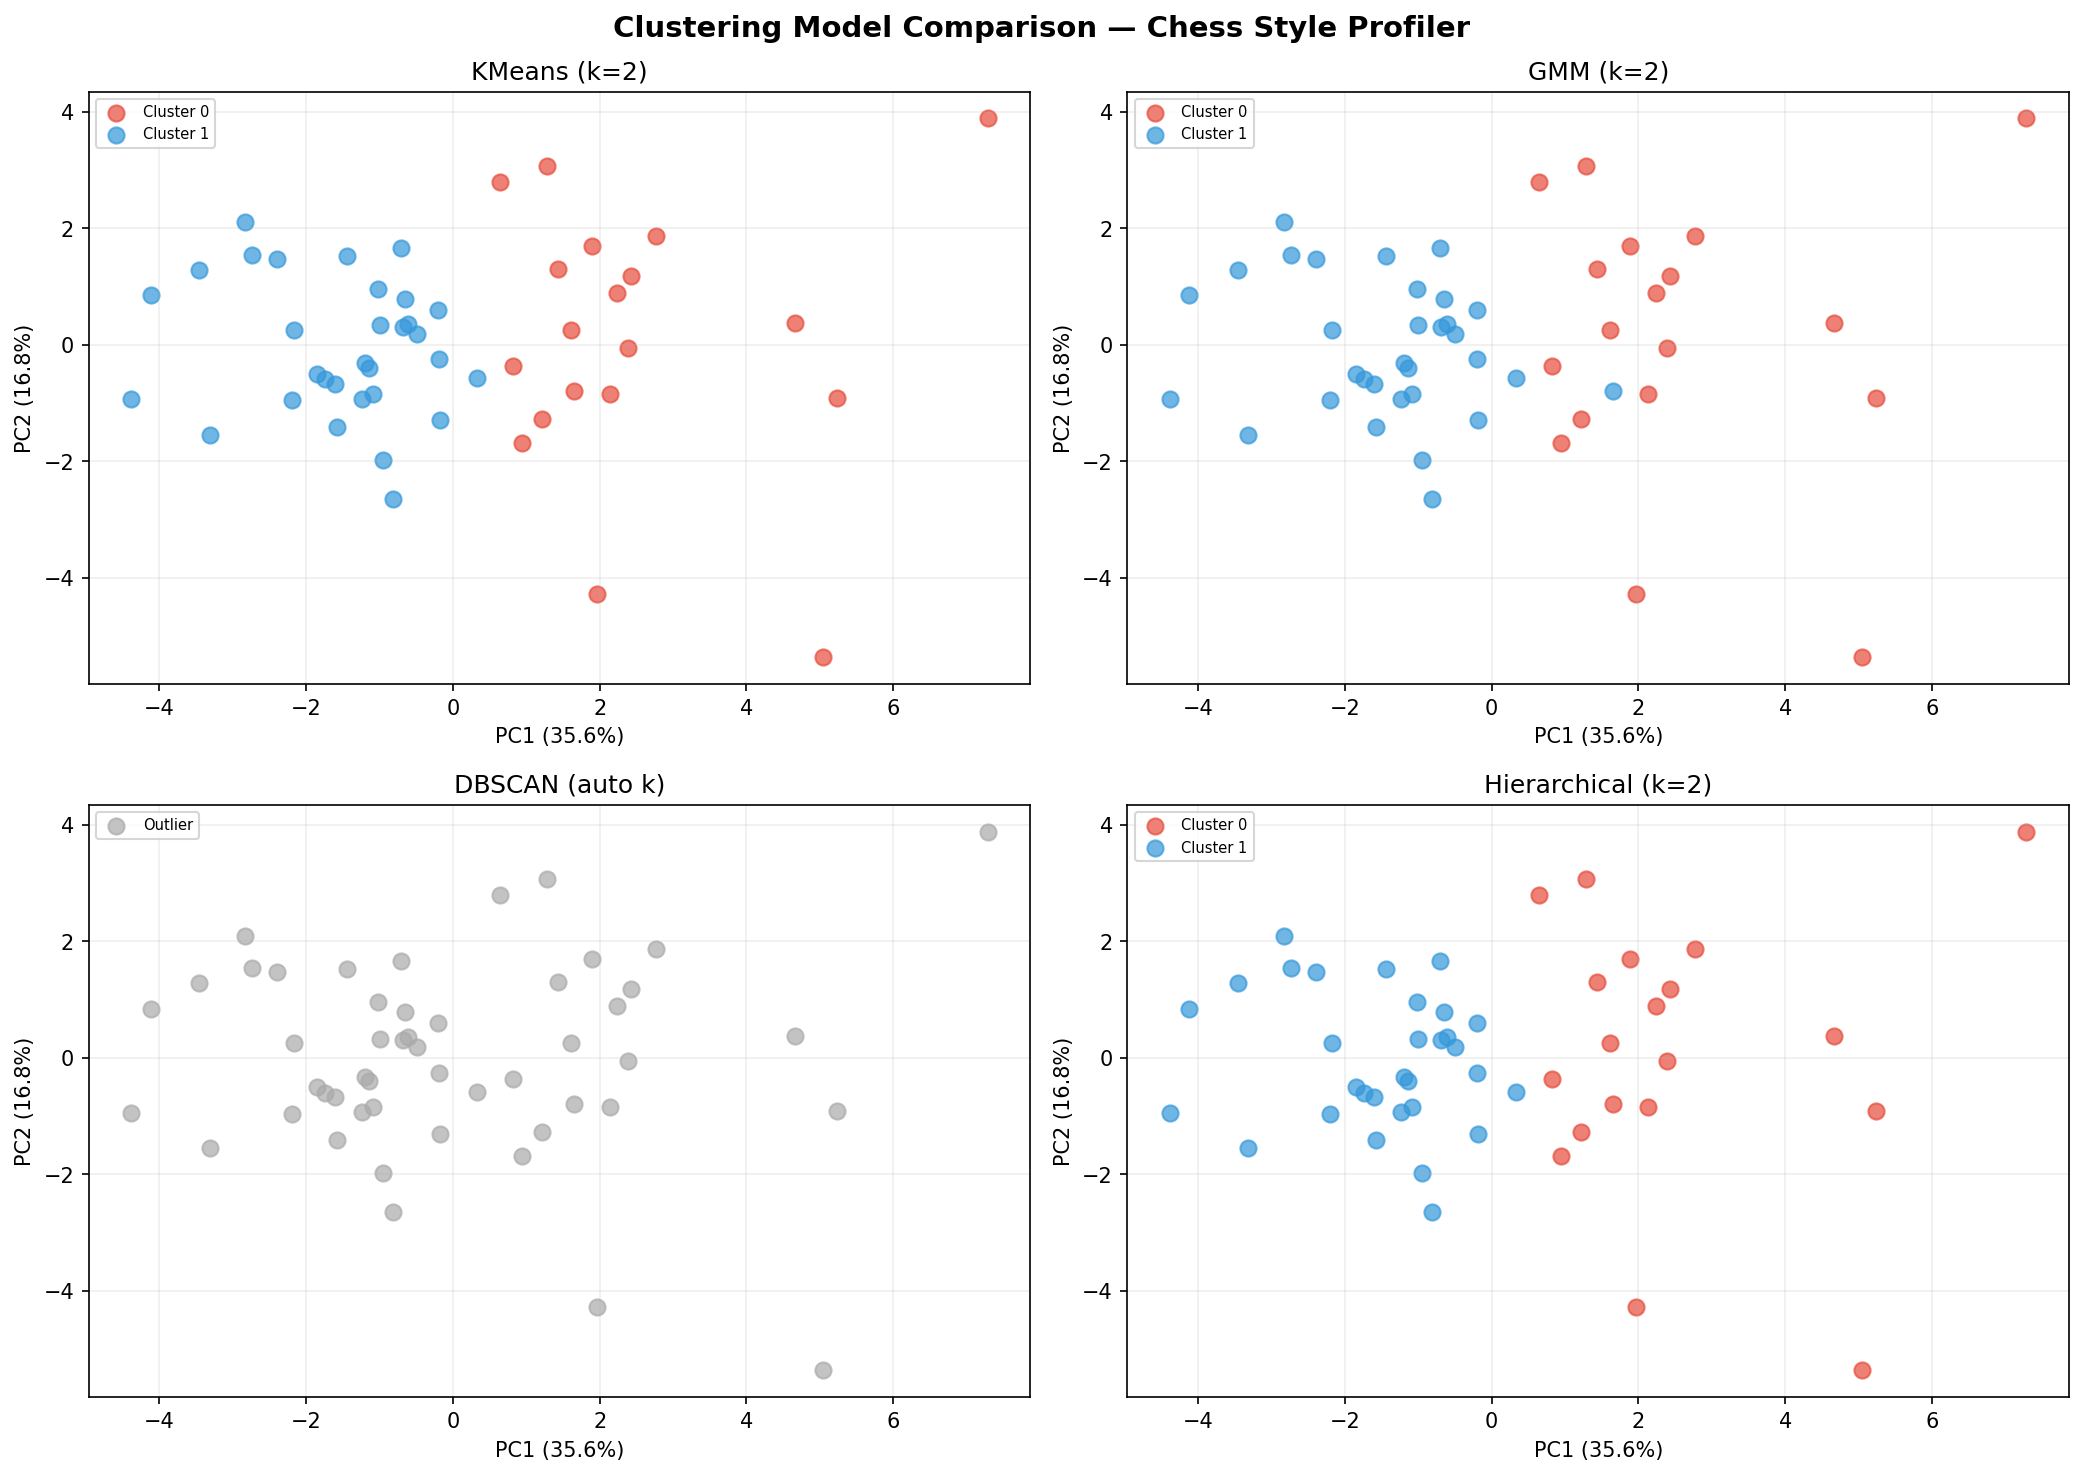
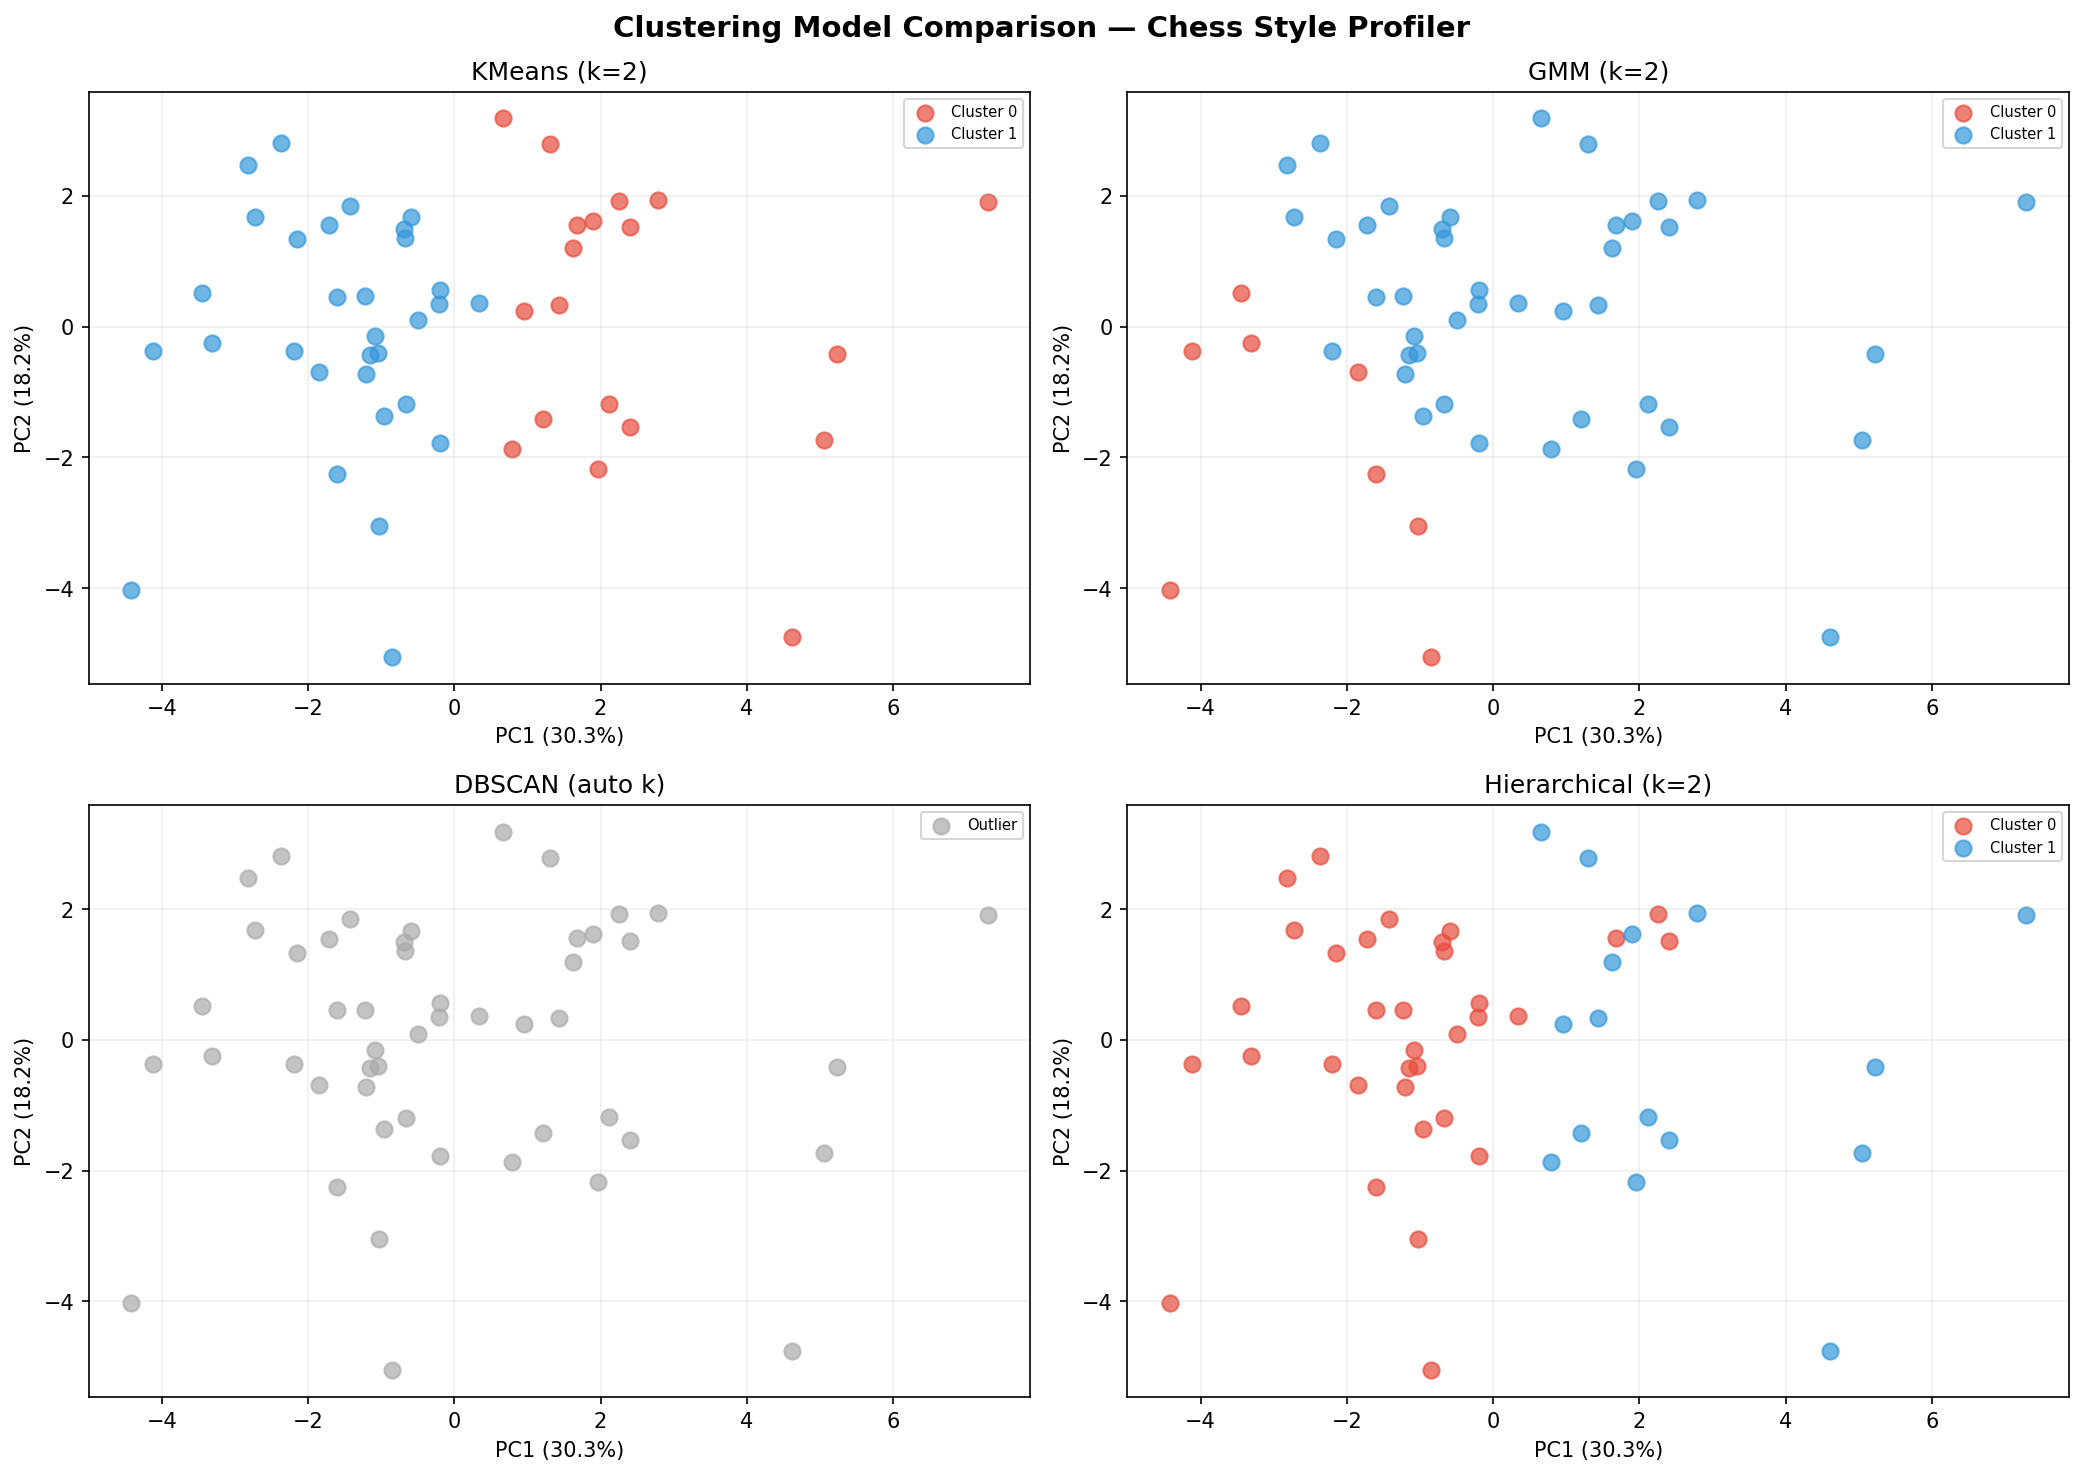
fix: fetch diverse players from arena tournaments across rating bands

diff --git a/src/data_loader.py b/src/data_loader.py
@@ -7,53 +7,49 @@ from tqdm import tqdm
 
 
 def fetch_top_rapid_players(n: int = 50) -> list[str]:
-    """
-    Fetch top rapid players directly from Lichess leaderboard.
-    Guaranteed to have plenty of rapid games.
-    """
     url = "https://lichess.org/api/player/top/50/rapid"
     headers = {"Accept": "application/json"}
-
     response = requests.get(url, headers=headers)
     data = response.json()
-
     usernames = [u["username"] for u in data["users"]]
     print(f"Found {len(usernames)} top rapid players from Lichess")
     return usernames[:n]
 
 
-def fetch_players_by_rating_range(
-        min_rating: int,
-        max_rating: int,
-        count: int = 10) -> list[str]:
+def fetch_tournament_players(tournament_id: str,
+                              max_players: int = 100) -> list[tuple]:
     """
-    Find active rapid players in a specific rating range.
-    Samples from top 200 rapid players and filters by rating.
+    Fetch players and their ratings from a Lichess arena tournament.
+    Returns list of (username, rating) tuples.
     """
-    url = "https://lichess.org/api/player/top/200/rapid"
-    headers = {"Accept": "application/json"}
+    url = f"https://lichess.org/api/tournament/{tournament_id}/results"
+    headers = {"Accept": "application/x-ndjson"}
+    params = {"nb": max_players}
 
-    response = requests.get(url, headers=headers)
-    data = response.json()
-
-    filtered = [
-        u["username"]
-        for u in data["users"]
-        if min_rating <= u.get("perfs", {}).get("rapid", {}).get("rating", 0) <= max_rating
-    ]
-
-    print(f"Found {len(filtered)} players rated {min_rating}-{max_rating}")
-    return filtered[:count]
+    try:
+        response = requests.get(
+            url, headers=headers,
+            params=params, stream=True, timeout=30
+        )
+        players = []
+        for line in response.iter_lines():
+            if line:
+                data = json.loads(line)
+                username = data.get("username")
+                rating   = data.get("rating", 0)
+                if username:
+                    players.append((username, rating))
+        print(f"  Tournament {tournament_id}: {len(players)} players")
+        return players
+    except Exception as e:
+        print(f"  Tournament {tournament_id}: FAILED — {e}")
+        return []
 
 
 def fetch_games_for_player(
         username: str,
         max_games: int = 100,
         time_control: str = "rapid") -> list[dict]:
-    """
-    Fetch rapid games for a single player from Lichess API.
-    Returns list of raw game dicts.
-    """
     url = f"https://lichess.org/api/games/user/{username}"
     params = {
         "max":      max_games,
@@ -74,27 +70,20 @@ def fetch_games_for_player(
         for line in response.iter_lines():
             if line:
                 games.append(json.loads(line))
-
         print(f"  {username}: {len(games)} games fetched")
         return games
-
     except Exception as e:
         print(f"  {username}: FAILED — {e}")
         return []
 
 
 def parse_games(games: list[dict], username: str) -> pd.DataFrame:
-    """
-    Parse raw Lichess API response into a clean DataFrame.
-    Each row = one game.
-    """
     rows = []
     for g in games:
         try:
             players = g.get("players", {})
             white   = players.get("white", {})
             black   = players.get("black", {})
-
             row = {
                 "username":     username,
                 "game_id":      g.get("id"),
@@ -118,30 +107,21 @@ def parse_games(games: list[dict], username: str) -> pd.DataFrame:
             rows.append(row)
         except Exception:
             continue
-
     return pd.DataFrame(rows)
 
 
 def fetch_all_players(
         players: list[str],
         max_games: int = 100) -> pd.DataFrame:
-    """
-    Fetch rapid games for all players.
-    Combines into one DataFrame with username column.
-    """
     all_dfs = []
-
     print(f"\nFetching rapid games for {len(players)} players...")
     print("=" * 50)
 
     for username in tqdm(players, desc="Players"):
         games = fetch_games_for_player(username, max_games)
-
         if games:
             df = parse_games(games, username)
             all_dfs.append(df)
-
-        # Be polite to Lichess API
         time.sleep(1.5)
 
     if not all_dfs:
@@ -149,97 +129,96 @@ def fetch_all_players(
         return pd.DataFrame()
 
     combined = pd.concat(all_dfs, ignore_index=True)
-
     print(f"\n{'=' * 50}")
     print(f"Total games fetched : {len(combined)}")
     print(f"Players with data   : {combined['username'].nunique()}")
     print(f"\nGames per player:")
-    print(combined.groupby("username").size().sort_values(ascending=False).to_string())
-
+    print(combined.groupby("username").size()
+          .sort_values(ascending=False).to_string())
     return combined
+
+
+def sample_by_rating_band(players: list[tuple],
+                           bands: list[tuple],
+                           per_band: int = 20) -> list[str]:
+    """Sample players deliberately across rating bands."""
+    sampled = []
+    for low, high in bands:
+        band = [u for u, r in players if low <= r < high]
+        sampled.extend(band[:per_band])
+        print(f"  {low}-{high}: {len(band)} available, "
+              f"took {min(len(band), per_band)}")
+    return list(dict.fromkeys(sampled))
 
 
 if __name__ == "__main__":
     os.makedirs("data", exist_ok=True)
 
-    print("Building diverse player pool from Lichess...")
-
-    # Pull top 100 rapid players from leaderboard
-    # These are all active, guaranteed to have 100 rapid games
-    elite = fetch_top_rapid_players(50)
-
-    # Add known content creators / mid-level players
-    # who are verified to have rapid games on Lichess
-    mid_and_club = [
-        "chess-network",
-        "penguingim1",
-        "crofl",
-        "TigerLilov",
-        "Zhigalko_Sergei",
-        "RebeccaHarris",
-        "LordOfRats",
-        "TheFinnisher96",
-        "mishanick",
-        "somethingpretentious",
-        "BahadirOzen",
-        "TwelveDays",
-        "Avalanche42",
-        "ChessBrah",
-        "MrChessBum",
-        "Grischuk",
-        "awesome_games",
-        "Bittersweet_Symphony",
-        "MarcoBorrelli",
-        "Giri_official",
-        "MagnusCarlsen_fan",
-        "AlexanderGrischuk",
-        "LucasBraune",
-        "RaudelCuba",
-        "FabianoCaruana",
-        "Iljin_Aleksei",
-        "Simonlundgaard",
-        "Tari_Aryan",
-        "ChessKing_official",
-        "RookSacrifice",
-        "GambiterKing",
-        "AttackingChess",
-        "e4player",
-        "BlindfoldsChess",
-        "SpeedrunChess",
-        "PositionalMaster",
-        "EndgameWizard",
-        "TacticalGenius",
-        "OpeningTheory",
-        "KingsGambitFan",
-        "SicilianDragon88",
-        "LondonSystemPro",
-        "CaroKannDefender",
-        "FrenchDefenseFan",
-        "GrunfeldMaster",
-        "NimzoIndianFan",
-        "QueensGambitPro",
-        "RuyLopezMaster",
-        "ItalianGameFan",
-        "ScotchGamePro",
+    # ── Step 1: Fetch players from diverse arena tournaments ───────
+    TOURNAMENT_IDS = [
+        "SopTH39C",  # Slav Defense Rapid Arena   — 196 players
+        "DEHeCQNy",  # ≤1300 Rapid Arena           — 58  players (beginners)
+        "HPkHFL2D",  # Hourly SuperBlitz Arena     — 204 players (mixed)
+        "y9YmKzXm",  # Hourly Blitz Arena          — 140 players (mixed)
+        "ZbKTAZNc",  # ≤1500 Blitz Arena           — 69  players (casual)
+        "pARZoUJY",  # ≤1700 SuperBlitz Arena      — 102 players (mid)
     ]
 
-    all_players = list(dict.fromkeys(elite + mid_and_club))
-    print(f"\nAttempting to fetch: {len(all_players)} players")
+    print("Fetching players from arena tournaments...")
+    all_player_tuples = []
+    for tid in TOURNAMENT_IDS:
+        players = fetch_tournament_players(tid, max_players=150)
+        all_player_tuples.extend(players)
+        time.sleep(1)
 
+    # Deduplicate by username
+    seen = set()
+    unique_players = []
+    for u, r in all_player_tuples:
+        if u not in seen:
+            seen.add(u)
+            unique_players.append((u, r))
+
+    print(f"\nTotal unique players from tournaments: {len(unique_players)}")
+
+    if unique_players:
+        ratings = [r for _, r in unique_players]
+        print(f"Rating distribution:")
+        print(f"  Min: {min(ratings)}")
+        print(f"  Max: {max(ratings)}")
+        print(f"  Mean: {int(sum(ratings)/len(ratings))}")
+
+    # ── Step 2: Sample across rating bands for diversity ──────────
+    print(f"\nSampling across rating bands:")
+    bands = [
+        (600,  1200),  # beginner
+        (1200, 1600),  # casual
+        (1600, 2000),  # club player
+        (2000, 2400),  # advanced
+        (2400, 3000),  # elite
+    ]
+    tournament_players = sample_by_rating_band(
+        unique_players, bands, per_band=20
+    )
+    print(f"Total sampled: {len(tournament_players)} players")
+
+    # ── Step 3: Add elite leaderboard players ─────────────────────
+    elite = fetch_top_rapid_players(20)
+    all_players = list(dict.fromkeys(tournament_players + elite))
+    print(f"\nFinal player pool: {len(all_players)} players")
+
+    # ── Step 4: Fetch games ───────────────────────────────────────
     df = fetch_all_players(all_players, max_games=100)
 
-    # Keep only players with 50+ rapid games
     if not df.empty:
+        # Filter to 50+ rapid games
         counts = df.groupby("username").size()
         valid  = counts[counts >= 50].index
         df     = df[df["username"].isin(valid)]
 
-        print(f"\nAfter filtering (50+ games): "
-              f"{df['username'].nunique()} players, "
-              f"{len(df)} games")
+        print(f"\nAfter filtering (50+ games):")
+        print(f"  Players: {df['username'].nunique()}")
+        print(f"  Games:   {len(df)}")
 
         df.to_csv("data/games_raw.csv", index=False)
-        print(f"Saved to data/games_raw.csv")
-        print(f"\nGames per player:")
-        print(df.groupby("username").size()
-              .sort_values(ascending=False).to_string())
+        print("Saved to data/games_raw.csv")

diff --git a/src/clustering.py b/src/clustering.py
@@ -25,6 +25,9 @@ FEATURE_COLS = [
     "avg_castle_move",
     "gambit_rate",
     "sharp_opening_rate",
+    "opening_entropy",
+    "top_opening_pct",
+    "unique_openings",
     "win_rate",
     "draw_rate",
     "decisive_rate",
